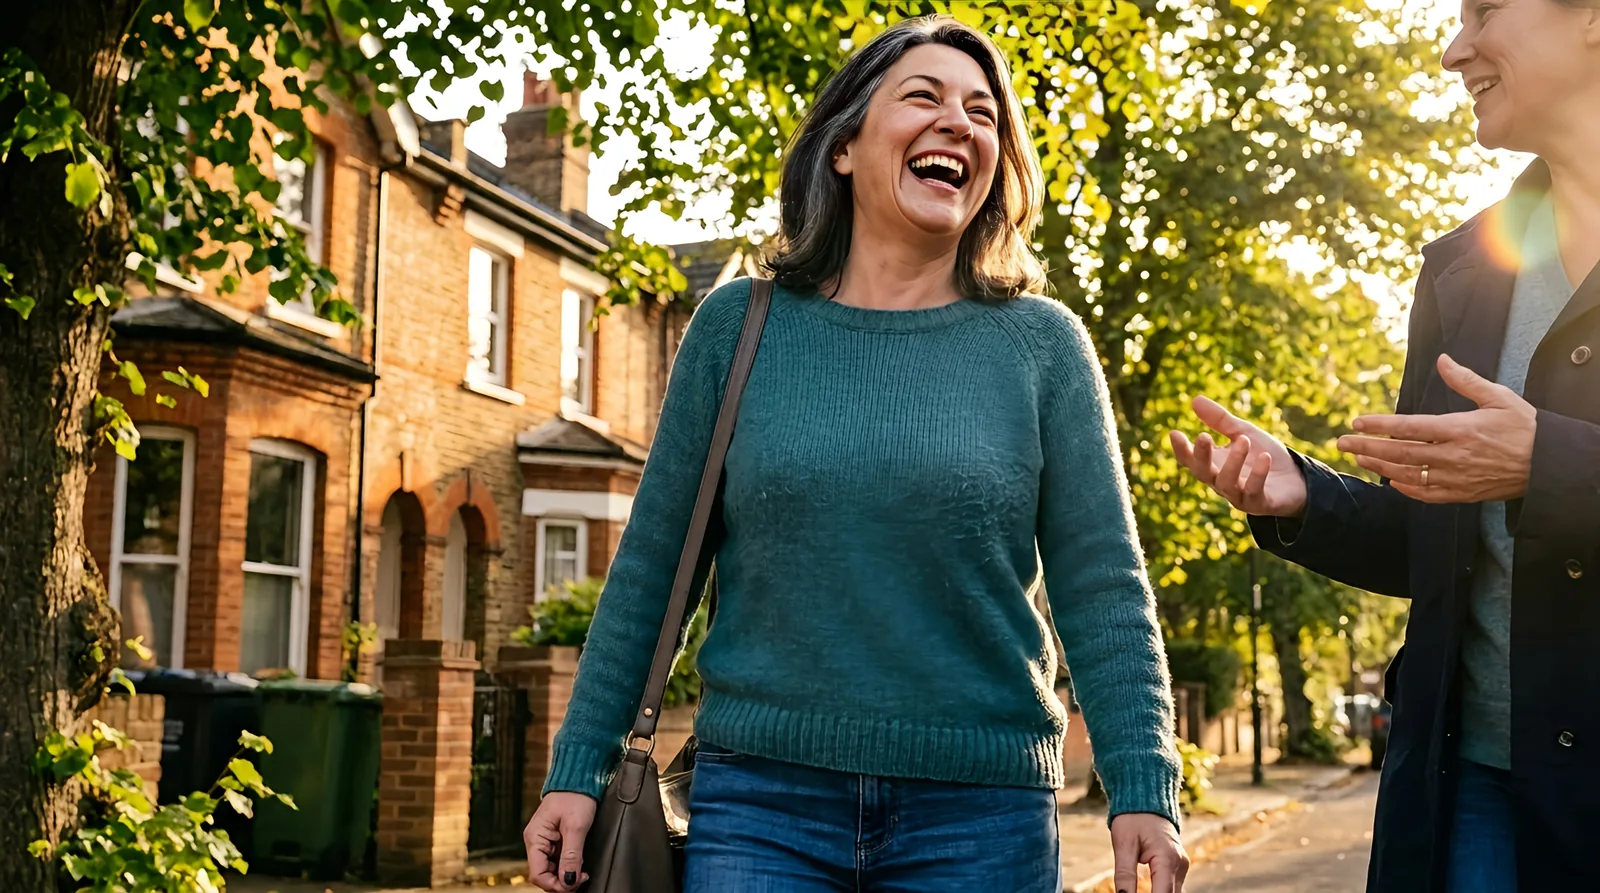
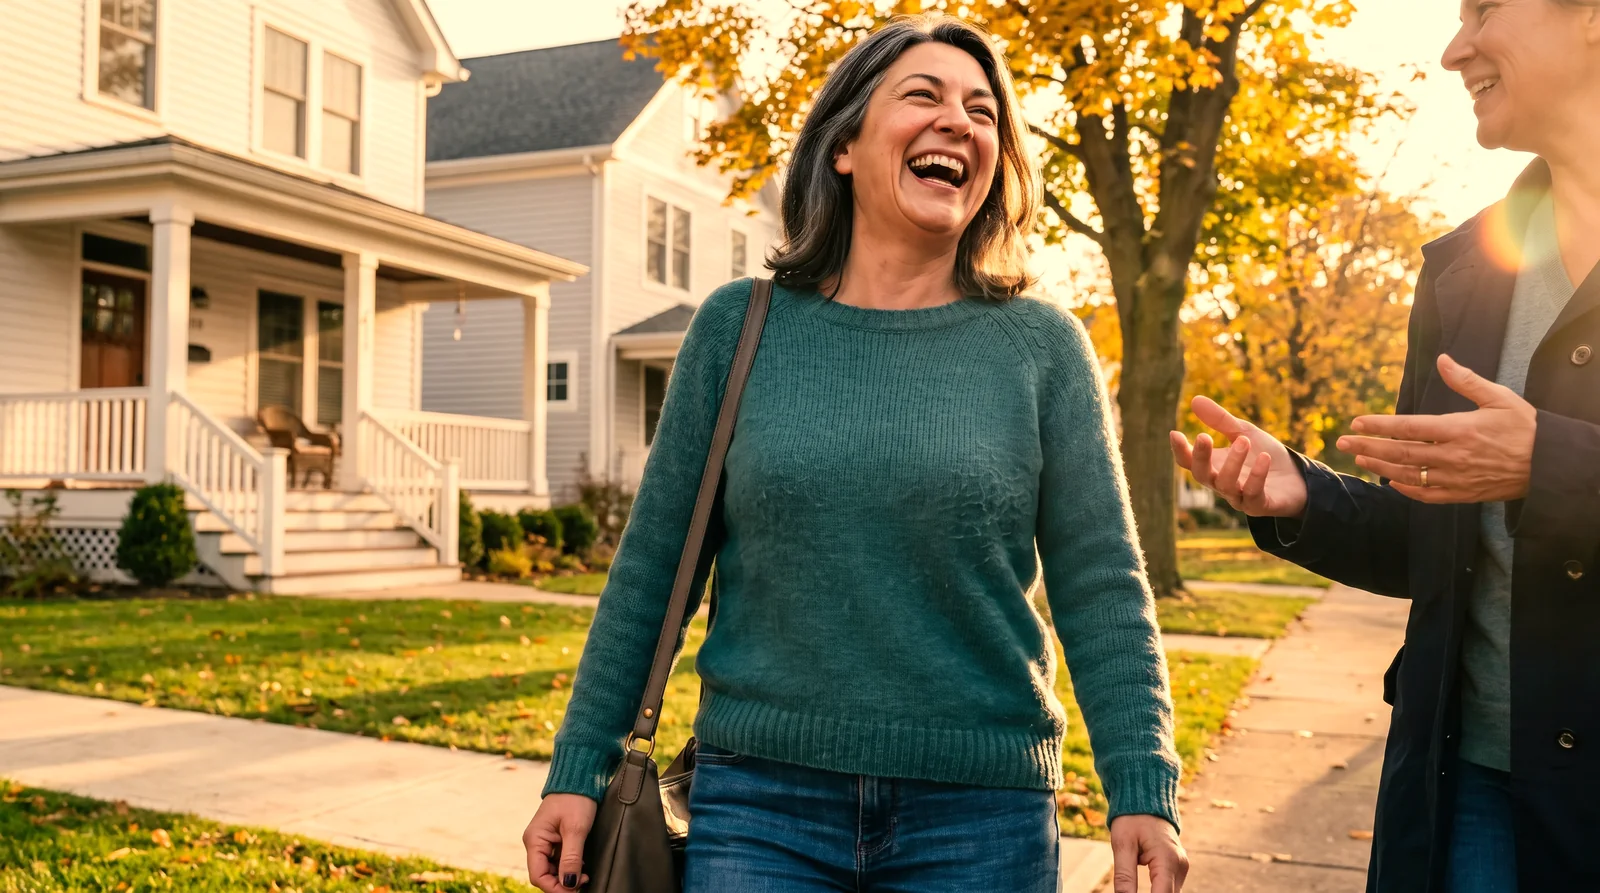
Lipstick hallway and street made American, check 15

diff --git a/blog-pipeline/photos-completed/2026-08-27.md b/blog-pipeline/photos-completed/2026-08-27.md
@@ -4,7 +4,7 @@ post_title: Is Your Lipstick Safe? What Ends Up On Your Lips All Day (2026)
 slug: is-your-lipstick-safe
 status: done
 cameron_processed: false
-note: "RESHOT 2026-08-23 on ImagineArt (Nano Banana Pro, each frame enhanced to 2752px then delivered at 1600px webp). THIS SUPERSEDES the 2026-08-11 version, which rendered the lipstick and gloss with NO wordmark at all. Same five filenames, same URLs, new images. The product is now the REAL Maybelline Color Sensational: slim polished silver chrome barrel, cap colour-matched to the deep berry shade, MAYBELLINE NEW YORK in small clean capitals on the barrel. HOW THE BRAND RECOGNITION IS CARRIED: a bullet lipstick is physically too small to hold a legible wordmark in a wide room shot, and three attempts at a close hero either produced a disembodied extra hand or a floating advert-style product cut-out. So the VILLAIN beat carries the brand: it is a close product shot and MAYBELLINE NEW YORK reads perfectly clean and correct on the barrel there. The hero is the natural human frame and the tube in it is simply a lipstick, with no gibberish text on it. ONE hallway locked across hero and turning point (walnut console, round wooden mirror, bowl of keys, stack of post, coats and a leopard scarf on hooks, fern, glass panelled front door). Hero is her about 50, jacket half on and bag already on her shoulder, putting a deep berry lipstick on at the mirror on a weekday morning. Villain is the coldest frame and nobody is in it: a real bathroom counter on hard flat desaturated light with the Maybelline bullet lying twisted all the way up and worn at an angle, its cap off to one side, an open gloss wand beside it, and a crumpled tissue carrying a heavy smear of the same berry red, surrounded by honest counter clutter (hairbrush with hair in it, toothbrush in a mug, hair tie, folded flannel, cotton buds). Turning point has her lower the lipstick, cap in her other hand, looking at her own reflection, settled, decision already made, jacket now off the shoulder, NOT reading anything. BELONGING WAS RESHOT ON 2026-08-25 AND THE FILE OVERWRITTEN IN PLACE. The original was two women sitting on a bed in a dim charcoal and plum bedroom, and Shannon rejected it outright: women do not go into each other bedrooms and sit on the bed, and the worn colours read as dated and generated. It is now two women of the same age standing at the island of a big bright MODERN kitchen over a cafetiere and two mugs, properly mid-conversation and laughing, quartz island, pendant lights, fresh flowers, garden through the window. Same filename, same URL, new image. Freedom is the warmest: outdoors on a sunlit street in full golden light, bare lips, no makeup at all, laughing hard at something a friend just said. She is never made to look vain or silly anywhere in the set. Villain is the product and the company. Belonging redone 2026-10-12 for check 15; it was the only kitchen frame and had wooden blinds, a French press, a mug and flowers in a vase. New belonging is a wide shot of a big lived-in kitchen in a suburban house in Denver, Colorado: soft grey shaker cabinets, white quartz island with stools, stainless French-door fridge, dishwasher, gas range with full oven door and tea towels, floor-length cream linen curtains on a black rod at the back windows, the same two women laughing at the island with empty hands and a fruit bowl. A kettle and toaster were removed by edit and British sockets and the fridge display painted out by hand. Villain was edited to remove the mug holding the toothbrush and the towel radiator; the real Maybelline lipstick stays. Hero, turning point and freedom kept. Measured R/B ramp: villain 0.87, hero 1.17, turning point 1.20, belonging 1.49, freedom 1.58."
+note: "RESHOT 2026-08-23 on ImagineArt (Nano Banana Pro, each frame enhanced to 2752px then delivered at 1600px webp). THIS SUPERSEDES the 2026-08-11 version, which rendered the lipstick and gloss with NO wordmark at all. Same five filenames, same URLs, new images. The product is now the REAL Maybelline Color Sensational: slim polished silver chrome barrel, cap colour-matched to the deep berry shade, MAYBELLINE NEW YORK in small clean capitals on the barrel. HOW THE BRAND RECOGNITION IS CARRIED: a bullet lipstick is physically too small to hold a legible wordmark in a wide room shot, and three attempts at a close hero either produced a disembodied extra hand or a floating advert-style product cut-out. So the VILLAIN beat carries the brand: it is a close product shot and MAYBELLINE NEW YORK reads perfectly clean and correct on the barrel there. The hero is the natural human frame and the tube in it is simply a lipstick, with no gibberish text on it. ONE hallway locked across hero and turning point (walnut console, round wooden mirror, bowl of keys, stack of post, coats and a leopard scarf on hooks, fern, glass panelled front door). Hero is her about 50, jacket half on and bag already on her shoulder, putting a deep berry lipstick on at the mirror on a weekday morning. Villain is the coldest frame and nobody is in it: a real bathroom counter on hard flat desaturated light with the Maybelline bullet lying twisted all the way up and worn at an angle, its cap off to one side, an open gloss wand beside it, and a crumpled tissue carrying a heavy smear of the same berry red, surrounded by honest counter clutter (hairbrush with hair in it, toothbrush in a mug, hair tie, folded flannel, cotton buds). Turning point has her lower the lipstick, cap in her other hand, looking at her own reflection, settled, decision already made, jacket now off the shoulder, NOT reading anything. BELONGING WAS RESHOT ON 2026-08-25 AND THE FILE OVERWRITTEN IN PLACE. The original was two women sitting on a bed in a dim charcoal and plum bedroom, and Shannon rejected it outright: women do not go into each other bedrooms and sit on the bed, and the worn colours read as dated and generated. It is now two women of the same age standing at the island of a big bright MODERN kitchen over a cafetiere and two mugs, properly mid-conversation and laughing, quartz island, pendant lights, fresh flowers, garden through the window. Same filename, same URL, new image. Freedom is the warmest: outdoors on a sunlit street in full golden light, bare lips, no makeup at all, laughing hard at something a friend just said. She is never made to look vain or silly anywhere in the set. Villain is the product and the company. Belonging redone 2026-10-12 for check 15; it was the only kitchen frame and had wooden blinds, a French press, a mug and flowers in a vase. New belonging is a wide shot of a big lived-in kitchen in a suburban house in Denver, Colorado: soft grey shaker cabinets, white quartz island with stools, stainless French-door fridge, dishwasher, gas range with full oven door and tea towels, floor-length cream linen curtains on a black rod at the back windows, the same two women laughing at the island with empty hands and a fruit bowl. A kettle and toaster were removed by edit and British sockets and the fridge display painted out by hand. Villain was edited to remove the mug holding the toothbrush and the towel radiator; the real Maybelline lipstick stays. Hero, turning point and freedom kept. Measured R/B ramp: villain 0.87, hero 1.17, turning point 1.20, belonging 1.49, freedom 1.58. Hero, turning point and freedom edited 2026-10-13 so the whole set reads as an American home. The front hall had a British panelled front door with a letterbox and a radiator; hero and turning point now show a white American front door with a curtained glass upper panel, a brass deadbolt and a sheer-curtained sidelight, radiator removed, the woman and her lipstick unchanged. Freedom kept the two laughing women and replaced the British brick terrace and wheelie bins behind them with an American street of clapboard houses with porches and lawns, then warmed. Measured R/B ramp: villain 0.87, hero 1.16, turning point 1.22, belonging 1.49, freedom 1.71."
 ---
 
 ### isyourlipst-hero-v1

diff --git a/blog-pipeline/retired/what-happens-if-you-quit.md b/blog-pipeline/retired/what-happens-if-you-quit.md
@@ -7,7 +7,8 @@ keyword: what happens if i quit
 category: Builders
 cover: https://scan.ismyhometoxic.com/blog-images/whathappens-hero-v1.webp
 meta_description: Amazon's own contract says the shoppers you send are its customers, not yours. What happens the day you quit, and what you still keep.
-status: needs-review
+status: retired
+retired_note: "Shannon 2026-10-13: What happens if you quit - not a good blog post to write. It's confusing to the simple mind."
 review_note: "Shannon to decide: the post says publicly that if a builder cancels, the customer account stays with the company (source: internal note on reassignment, not a public document); three live builder posts (Sipology, Forever Living) say the customer record is yours to export. Also: the 2011 Wayback citation hit a 429 rate limit at gate time (re-curl before publish)."
 vault_checked: [Affiliate-Footprint-Targeting, Recurring-Income-Offer, Builder-Target-Segments, North-Star]
 ---
